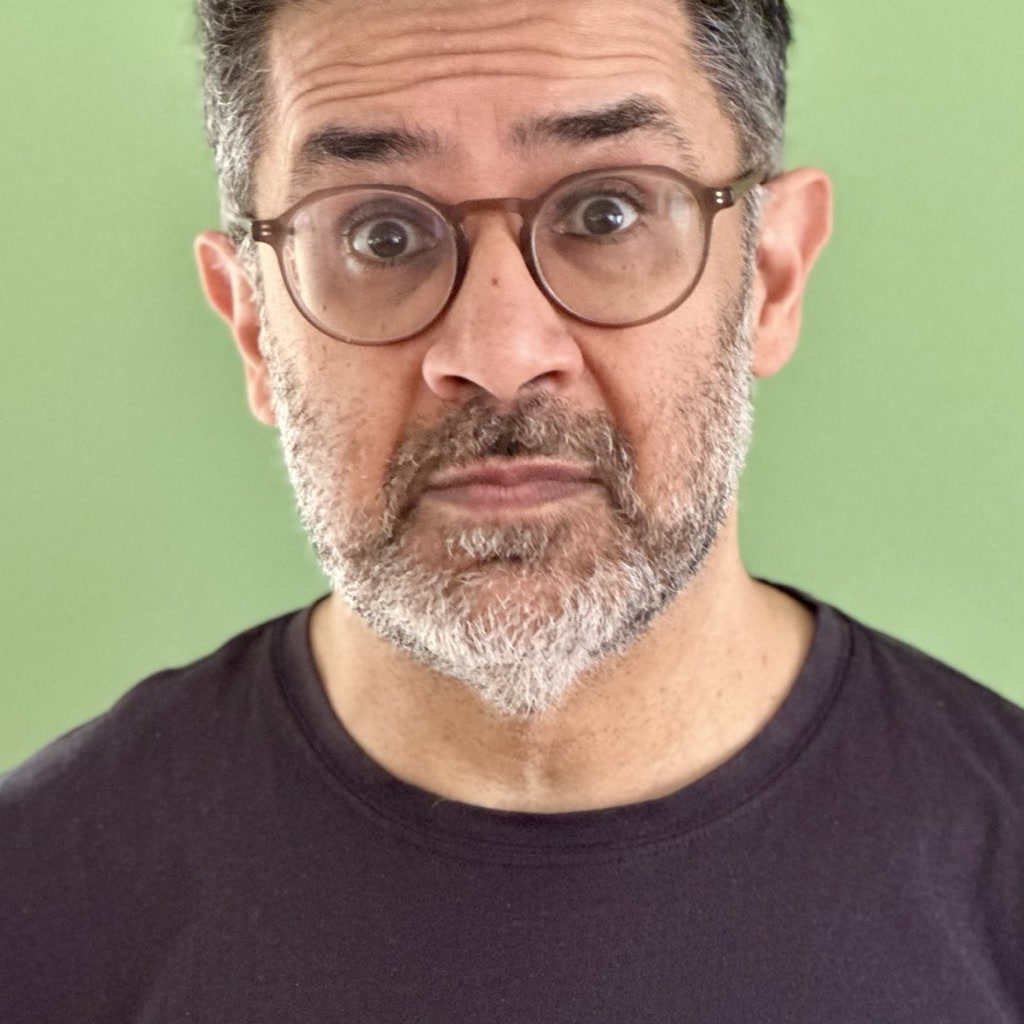
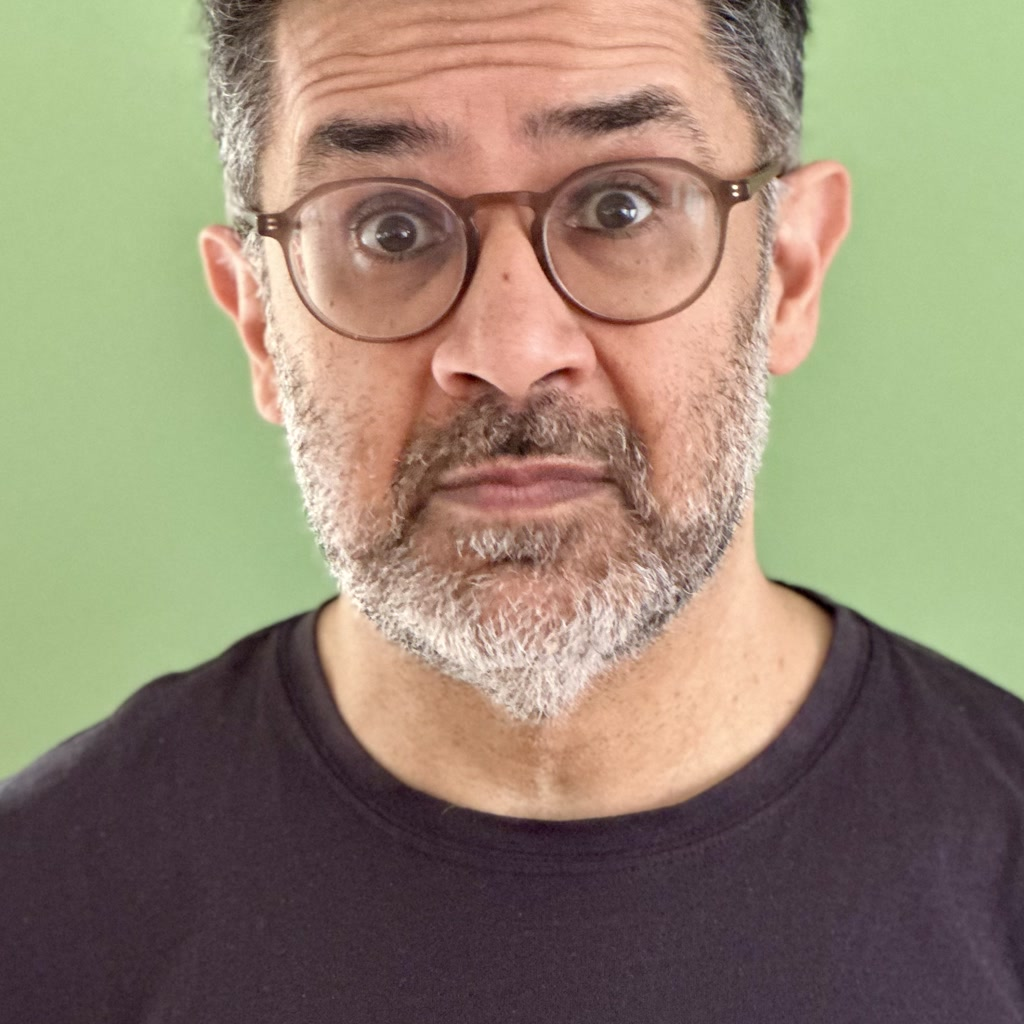
chore(comedians): sync from Grist (1 written, 0 removed)
Auto-generated by script/sync-comedians.rb on 2026-10-27T09:05:06Z.

diff --git a/_comedians/ali.md b/_comedians/ali.md
@@ -1,8 +1,8 @@
 ---
 layout: comedian
 title: "Ali"
-description: "Ali performs English stand-up comedy with IN YOUR FACE in Zürich, Switzerland."
-last_modified_at: "2026-10-26T11:34:01+00:00"
+description: "Comedian on IN YOUR FACE Comedy stages in Zürich. Ali is a good boy. Likes belly rubs. Please do not look directly in the eyes."
+last_modified_at: "2026-10-27T09:05:04+00:00"
 slug: "ali"
 photo: "/assets/img/comedians/ali.jpg"
 instagram: ""
@@ -13,6 +13,7 @@ youtube_channel: ""
 website: ""
 priority: "Low"
 image: "/assets/img/comedians/ali.jpg"
-bio: ""
+bio: |
+  Ali is a good boy. Likes belly rubs. Please do not look directly in the eyes.
 ---
 

diff --git a/pages/2_comedians.md b/pages/2_comedians.md
@@ -5,7 +5,7 @@ nav_title: Comedians
 title_override: "Comedians"
 subtitle: "The performers you'll see at IN YOUR FACE shows."
 description: "Meet the stand-up comedians who perform at IN YOUR FACE Comedy in Zürich. Bios, photos, and links to their socials."
-last_modified_at: 2026-10-26T11:34:01+00:00
+last_modified_at: 2026-10-27T09:05:04+00:00
 permalink: /comedians/
 image: "/assets/img/thumbs/comedians_card.png"
 thumbnail: "assets/img/thumbs/comedians_card.png"
